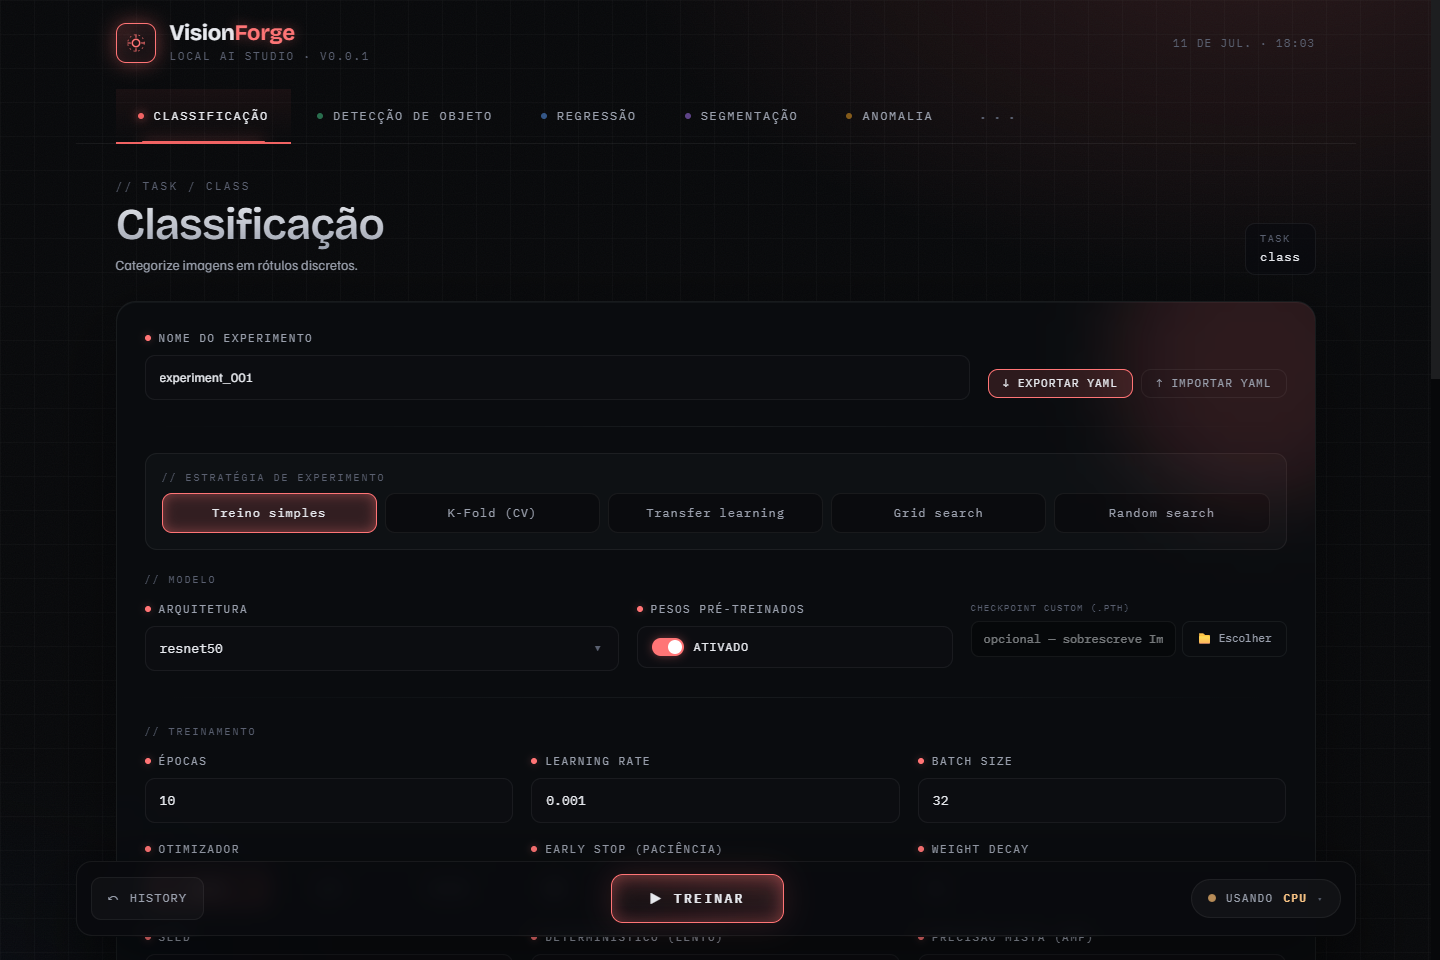
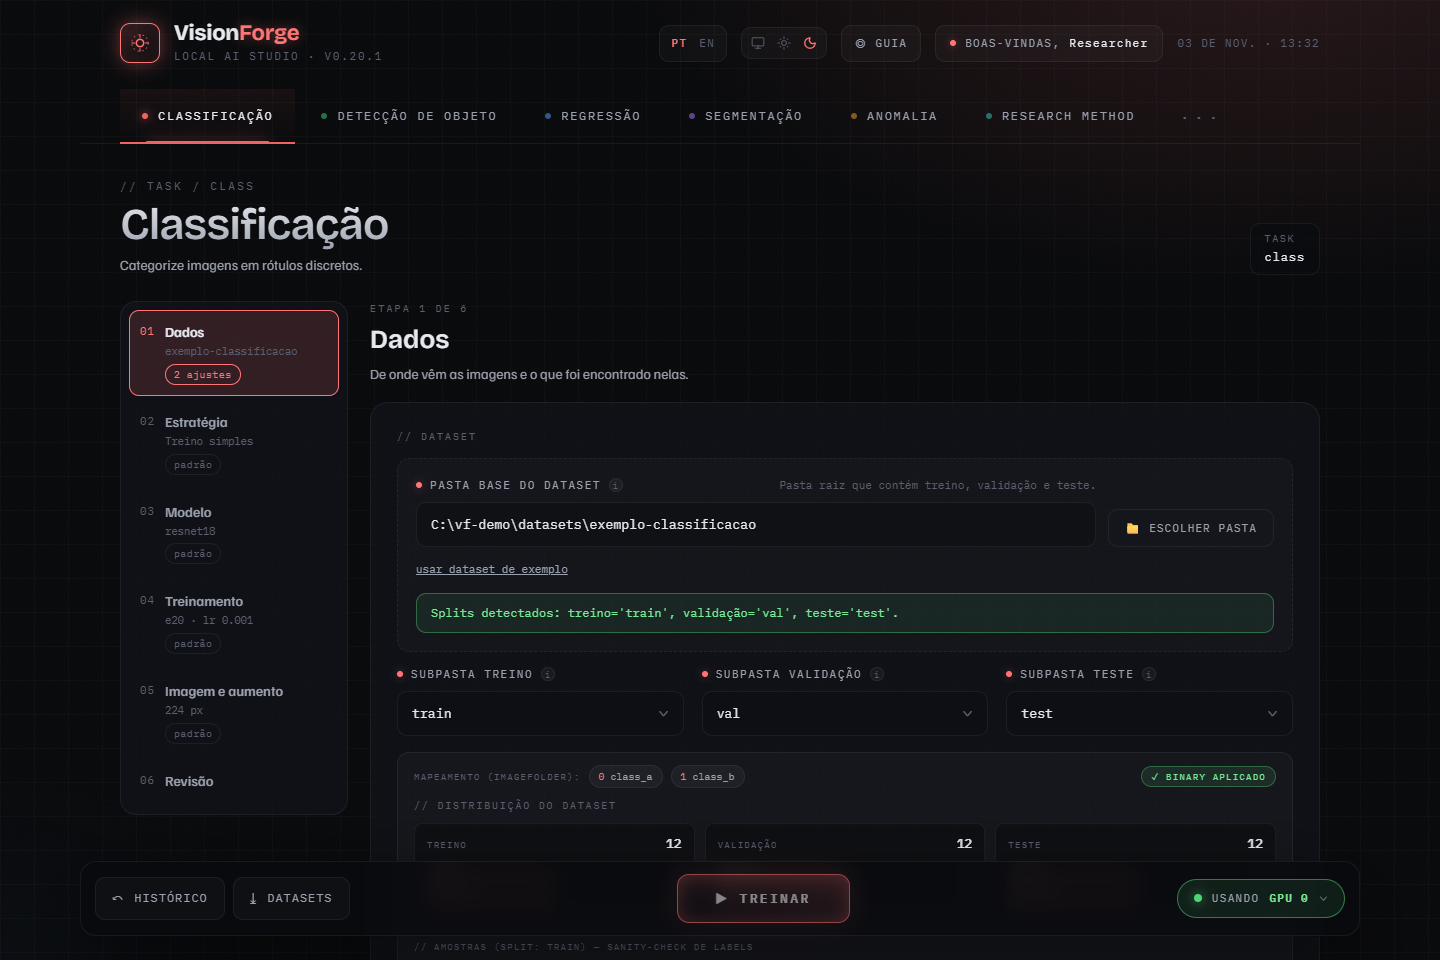
docs(readme): atualiza as capturas para a interface da v0.20.1

diff --git a/README.md b/README.md
@@ -10,7 +10,7 @@ Five task families, one interface, no cloud and no notebooks.
 > 🇧🇷 **Este README também está em português** — [role até a versão em
 > português](#português-pt-br).
 
-![VisionForge — classification panel](https://raw.githubusercontent.com/marcus-vreis/VisionForge/main/docs/images/vf-classification.png)
+![VisionForge — classification, data step of the six-step wizard](https://raw.githubusercontent.com/marcus-vreis/VisionForge/main/docs/images/vf-classification.png)
 
 ## Install
 
